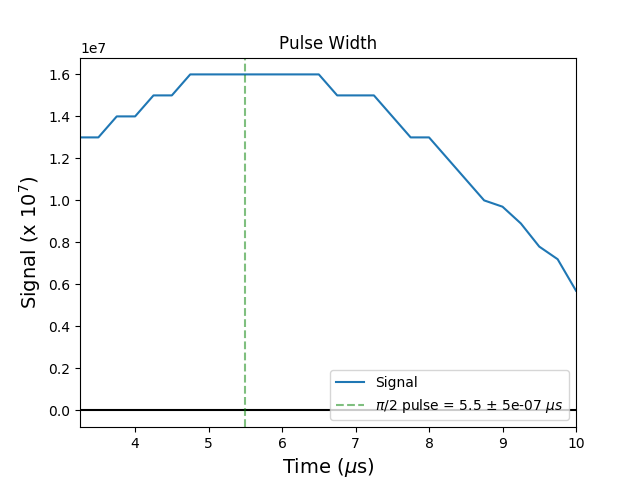
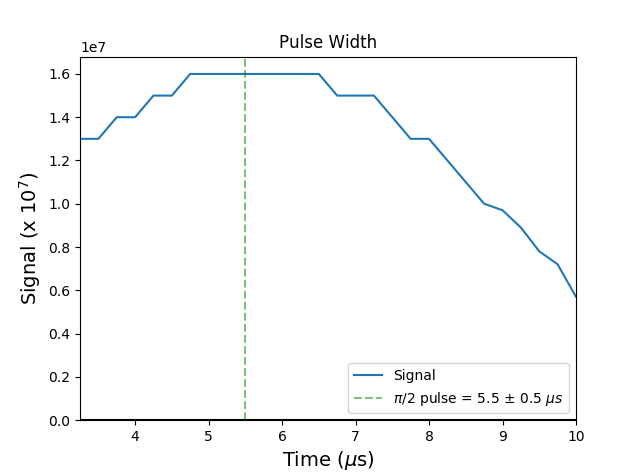
fixed pulsewidth plots uncertainty

diff --git a/nmr/plot_ispin_nmr_data_pulsewidth.py b/nmr/plot_ispin_nmr_data_pulsewidth.py
@@ -55,7 +55,7 @@ Begin Execution Here
 
 # The following is the filename containing the data
 directory = "data/pulseWidth/"
-filename = "pulsewidthfind.csv"
+filename = "pulsewidthfind2.csv"
 fname = directory+filename
 print("filename = ",fname)
 plot_title='Pulse Width'
@@ -98,6 +98,8 @@ ax1.plot(t,A,label='Signal')
 ax1.axvline(pi2_pulse, ls='--',color='g',alpha=.5,label='$\\pi/2$ pulse = {} $\pm$ {} $\mu s$'.format(pi2_pulse, pulse_uncertainty))
 if len(t) > 29:
     ax1.axvline(pi_pulse, ls='--',color='r',alpha=.5,label='$\\pi$ pulse = {} $\pm$ {} $\mu s$'.format(pi_pulse, pulse_uncertainty))
+else:
+    ax1.set_ylim(0)
 
 # label the axes and display legend
 ax1.set_xlabel('Time ('+np.str(tunits)+')',fontsize=14)
